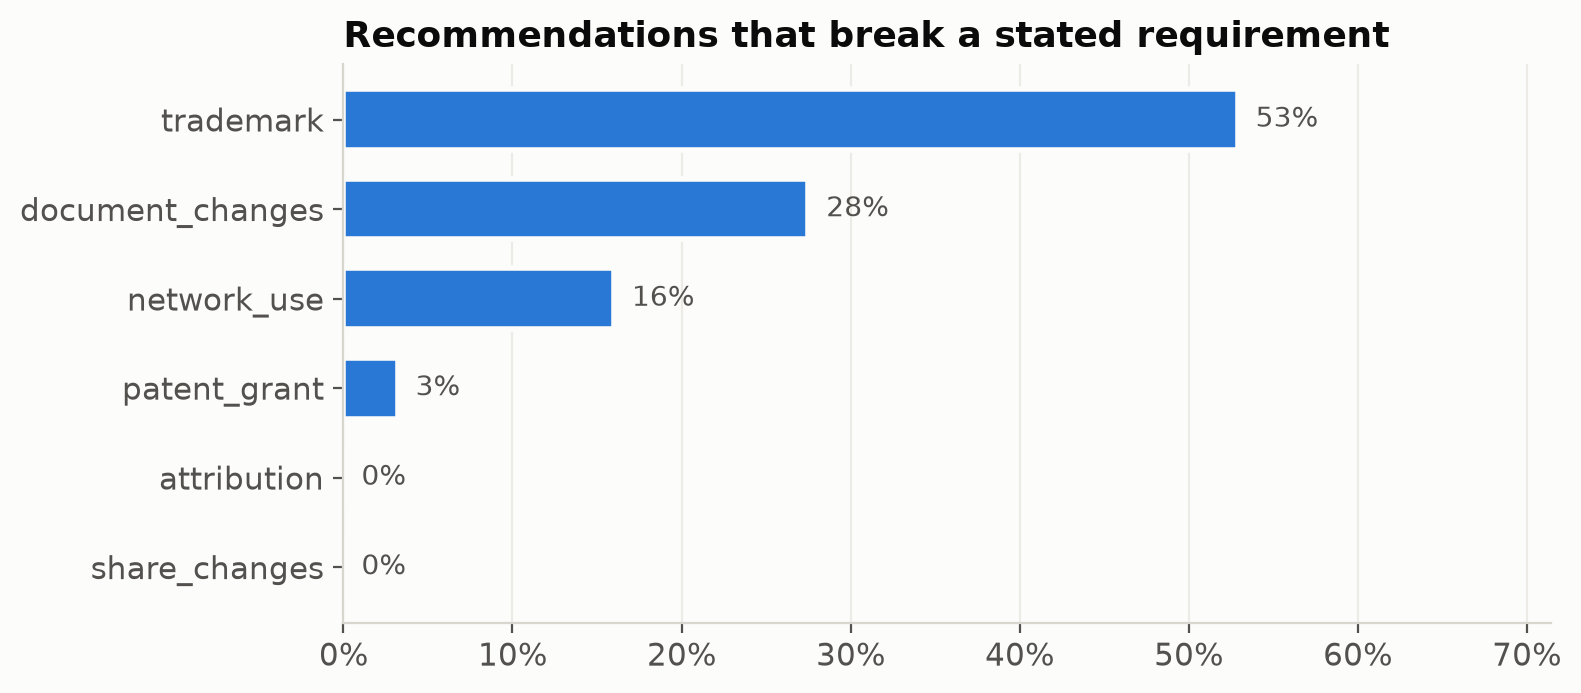
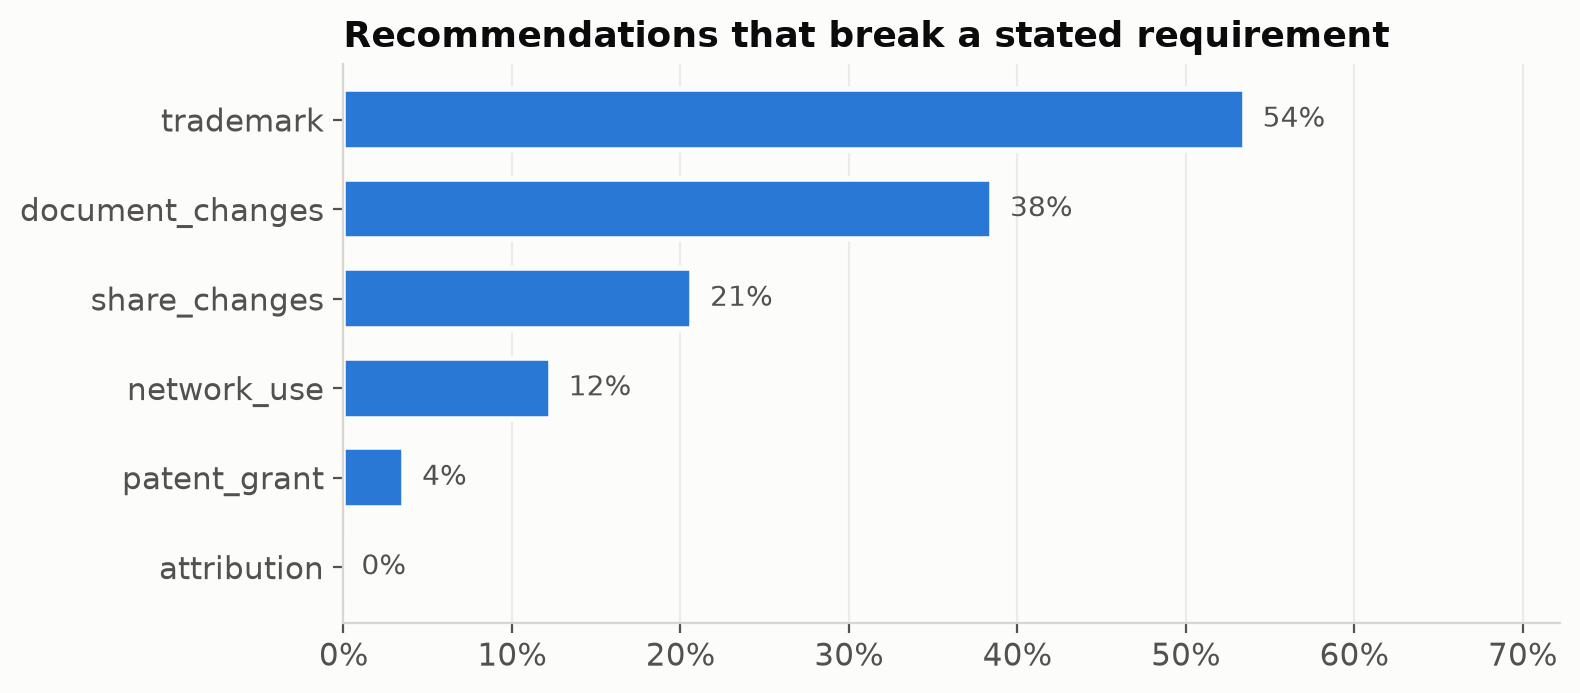
feat: updating ew models

diff --git a/docs/phase1_slides.md b/docs/phase1_slides.md
@@ -1,6 +1,6 @@
 # Phase 1 — Slide Content
 
-Placeholders: **[TEAM]** = only your team can fill · **[PENDING]** = needs the Stage 1 evaluation run.
+Placeholders: **[TEAM]** = only your team can fill.
 Figures: `docs/figures/` (generated by `notebooks/phase1_results.ipynb`) · Diagram: `docs/system_design.png`.
 
 ---
@@ -219,10 +219,20 @@ Figures: `docs/figures/` (generated by `notebooks/phase1_results.ipynb`) · Diag
 
 ---
 
-## 19. Results — Stage 1 Recommendation (preliminary)
+## 19. Results — Stage 1 Recommendation
 *(insert `docs/figures/10_stage1_hits.png` · `11_stage1_violations.png`)*
 | Correct licenses per description | n | Hit@1 | Hit@3 | Precision@3 |
 |---|---|---|---|---|
+| **All** | 104 | **0.56** | **0.74** | 0.55 |
+| 1–3 (hardest) | 47 | 0.40 | 0.60 | 0.42 |
+| 4–10 | 35 | 0.54 | 0.77 | 0.51 |
+| > 10 (easiest) | 22 | 0.91 | 1.00 | 0.88 |
+- 104 descriptions covering all 70 profiles (free-tier limit: 200k tokens/day)
+- Easy requests: near-perfect · specific requests: correct top-3 only **60%**
+- Most broken: **trademark 54%** · no-documentation 39% · copyleft level 21% · network 12%
+- Over-defaults to **Apache-2.0** (top pick 30×) even when it breaks a requirement
+
+---|---|---|---|---|
 | **All** | 55 | **0.69** | **0.85** | 0.67 |
 | 1–3 (hardest) | 16 | 0.69 | 0.81 | 0.69 |
 | 4–10 | 19 | 0.47 | 0.74 | 0.44 |
@@ -244,10 +254,12 @@ Figures: `docs/figures/` (generated by `notebooks/phase1_results.ipynb`) · Diag
 
 ## 21. Strengths & Weaknesses
 **Strengths**
+- Correct license in top 3 for 74% of descriptions (100% for broad requests)
 - "Verified" is reliable (precision 0.94)
 - Every claim is traceable to a clause
 - Open-weight, free to run; reproducible data
 **Weaknesses**
+- LLM-only recommendation fails specific requests (Hit@3 0.60 when only 1–3 licenses fit)
 - Misses ~30% of true claims (copyleft, "commercial use" wording) — see `09_nli_recall_by_label.png`
 - LLM alone can pick incompatible licenses (EPL-2.0 example)
 - Occasional false "contradicted"
@@ -256,7 +268,8 @@ Figures: `docs/figures/` (generated by `notebooks/phase1_results.ipynb`) · Diag
 ---
 
 ## 22. Next Steps (Phase 2)
-- Run Stage 1 & manifest evaluations (OSADL ground truth)
+- Rules engine checks Stage 1 picks against stated requirements (fixes 26% miss rate)
+- Manifest evaluation with OSADL compatibility ground truth
 - Build FastAPI backend + web UI
 - Rules engine for compatibility (v2)
 - Tune NLI threshold / fine-tune on license pairs
